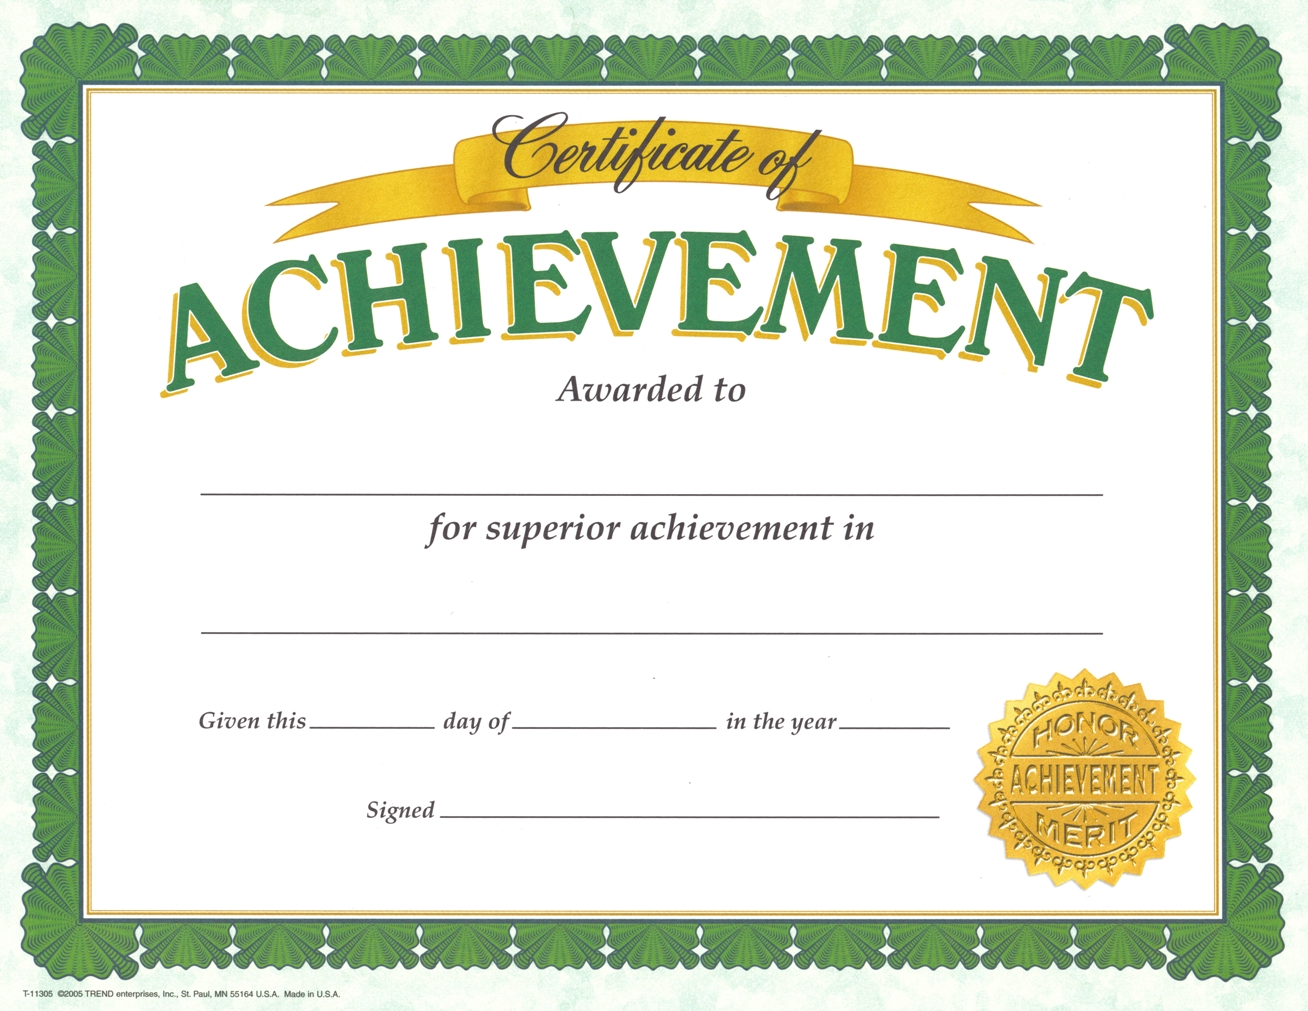
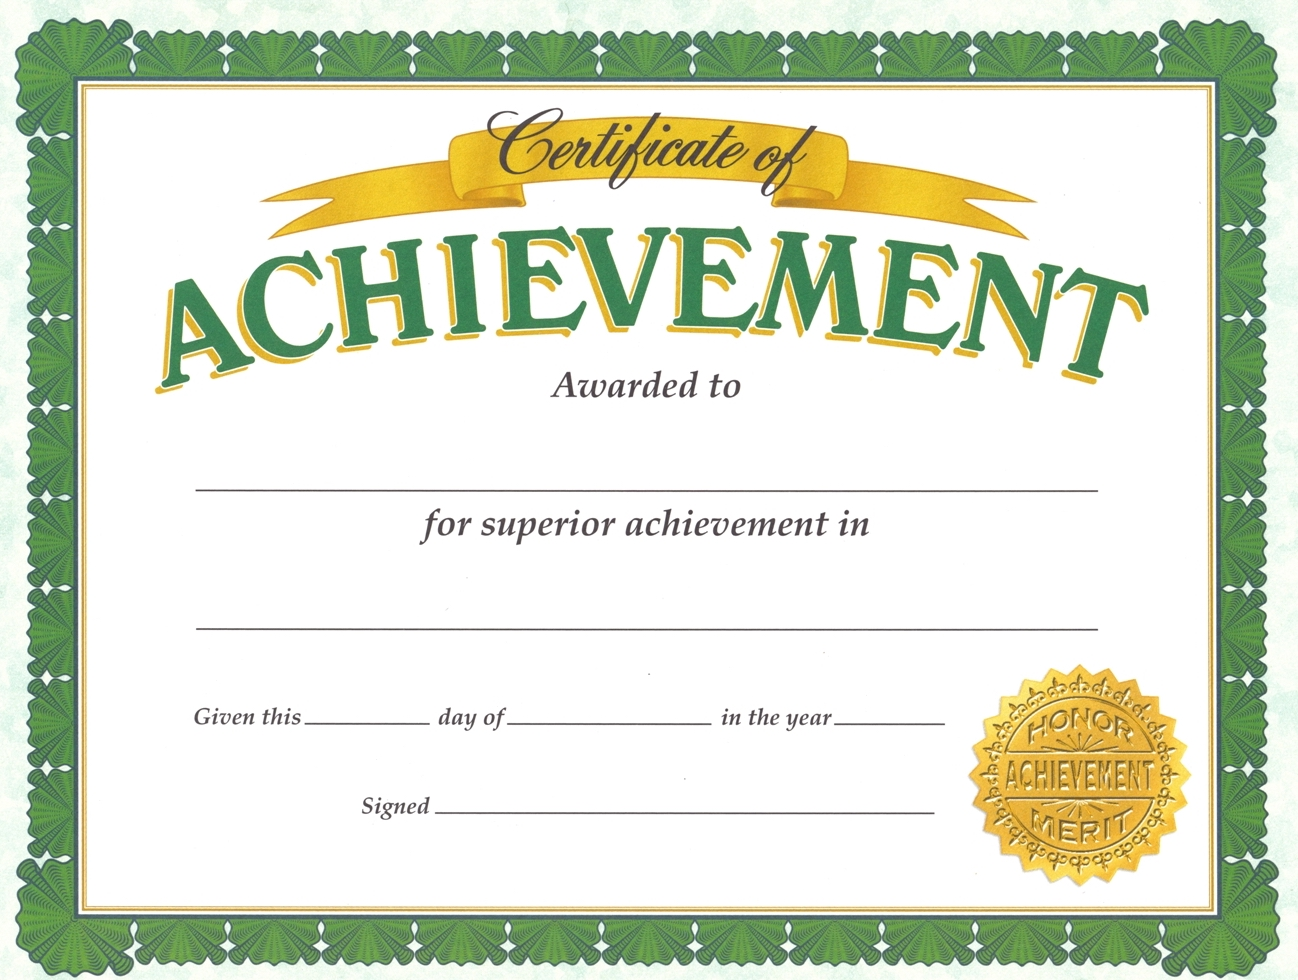
Adjust the image

diff --git a/app/generator/__init__.py b/app/generator/__init__.py
@@ -39,15 +39,15 @@ class Certificate(Generator):
 
         draw = ImageDraw.Draw(im)
 
-        width = 1308
+        width = 1298
         font = ImageFont.truetype(
             os.path.join(app.config['FONTS_FOLDER'], "FreeSans.ttf"), 20)
 
         w, h = draw.textsize(name, font=font)
-        draw.text(((width - w) / 2, 470), name, (0, 0, 0), font=font)
+        draw.text(((width - w) / 2, 465), name, (0, 0, 0), font=font)
 
         w, h = draw.textsize(award, font=font)
-        draw.text(((width - w) / 2, 610), award, (0, 0, 0), font=font)
+        draw.text(((width - w) / 2, 605), award, (0, 0, 0), font=font)
 
         today = date.today()
 
@@ -56,13 +56,13 @@ class Certificate(Generator):
         year = today.strftime('%Y')
 
         w, h = draw.textsize(day, font=font)
-        draw.text((350, 705), day, (0, 0, 0), font=font)
+        draw.text((350, 700), day, (0, 0, 0), font=font)
 
         w, h = draw.textsize(month, font=font)
-        draw.text((580, 705), month, (0, 0, 0), font=font)
+        draw.text((580, 700), month, (0, 0, 0), font=font)
 
         w, h = draw.textsize(year, font=font)
-        draw.text((870, 705), year, (0, 0, 0), font=font)
+        draw.text((870, 700), year, (0, 0, 0), font=font)
 
         im.save(fp)
 
